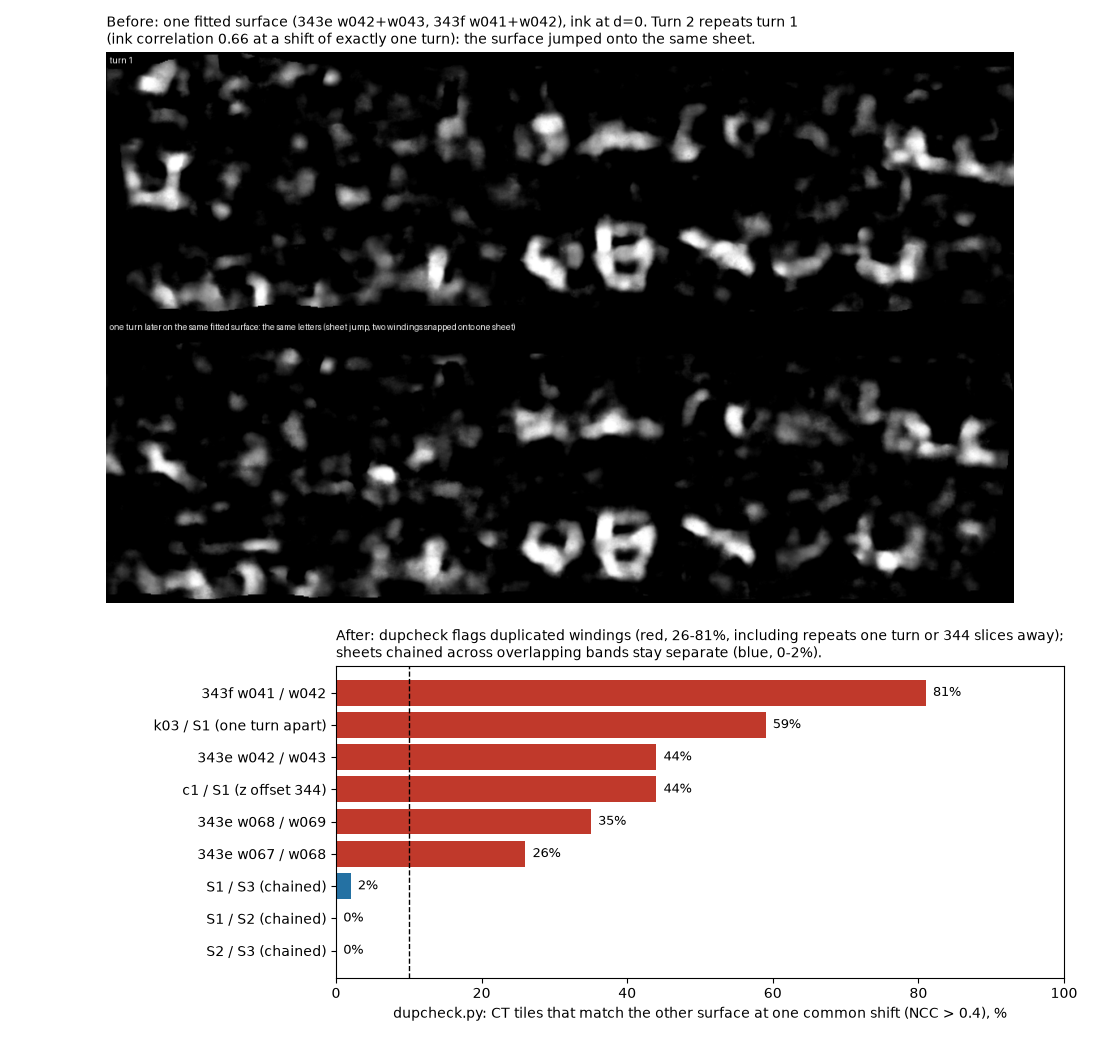
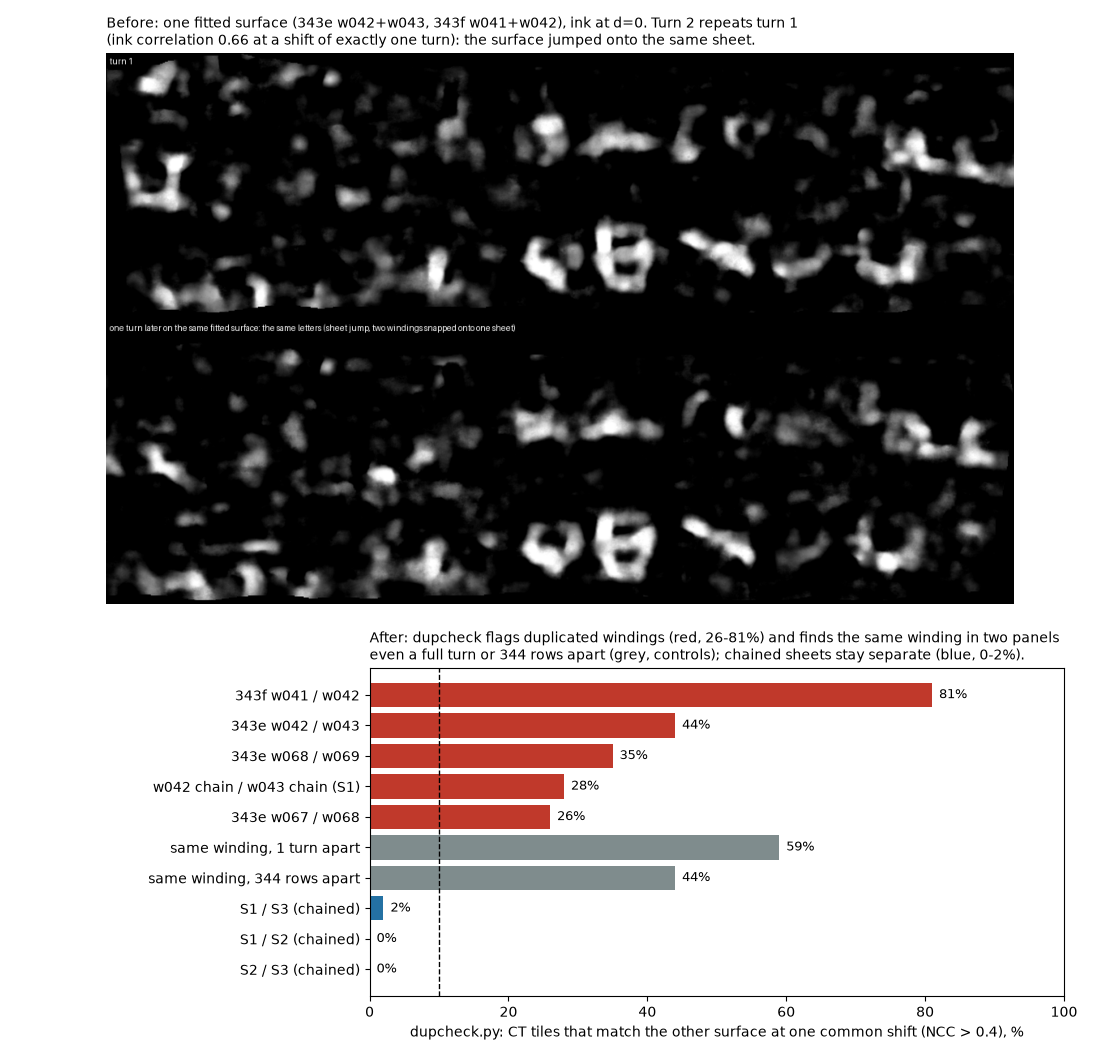
Separate duplicated windings from same-winding controls in the dupcheck figure and README; cite spiralfiteval

diff --git a/README.md b/README.md
@@ -63,9 +63,9 @@ KOINE=villa/ink-detection VESUVIUS_SRC=villa/vesuvius/src MODEL=reader2 TRAIN=S2
   about 3 voxels, runner-up 6-17 voxels (hard-boundary matching: best 8-15, runner-up 13-20). It reproduces the
   link we had made by eye for the sheet carrying the clearest letters.
 - Duplicate check: chained sheets give 0-2% matching tiles, duplicated windings 26-81% (343f w041/w042 81%,
-  343e w042/w043 44%, 343e w067-w069 26-35%). It also catches repeats far apart: a panel whose first turn is S1's
-  second turn (59%, one turn = 4496 px away) and an older panel offset by 344 slices (44%). We count each such
-  group once.
+  343e w042/w043 44%, 343e w067-w069 26-35%, the w042 and w043 chains 28%). As controls, the same winding rendered
+  in two different panels is found even a full turn (59%) or 344 rows (44%) away. We count each duplicated group
+  once.
 - Sheets followed this way show letter rows on three distinct sheets beyond the First Letters mesh (z ~11750 to
   ~13730), two lines per sheet, line spacing 3.5-4.3 mm, in three independently trained ink models.
 
@@ -77,6 +77,12 @@ KOINE=villa/ink-detection VESUVIUS_SRC=villa/vesuvius/src MODEL=reader2 TRAIN=S2
   models give scattered spots but no letter rows, so the tuning does not turn noise into lines.
 
 ![self-training, S1 held out](figures/selftrain_S1_heldout.jpg)
+
+## Related work
+
+- [spiralfiteval](https://github.com/jo-tud/spiralfiteval) (Johannes Pfeffer) scores spiral fits and has a geometric
+  duplicate-winding check (fitted surfaces closer than about 2 voxels). `dupcheck.py` covers the case after snapping,
+  where fits stay 6-9 voxels apart yet sit on the same sheet, using the CT texture of the rendered surfaces.
 
 ## Limits
 
